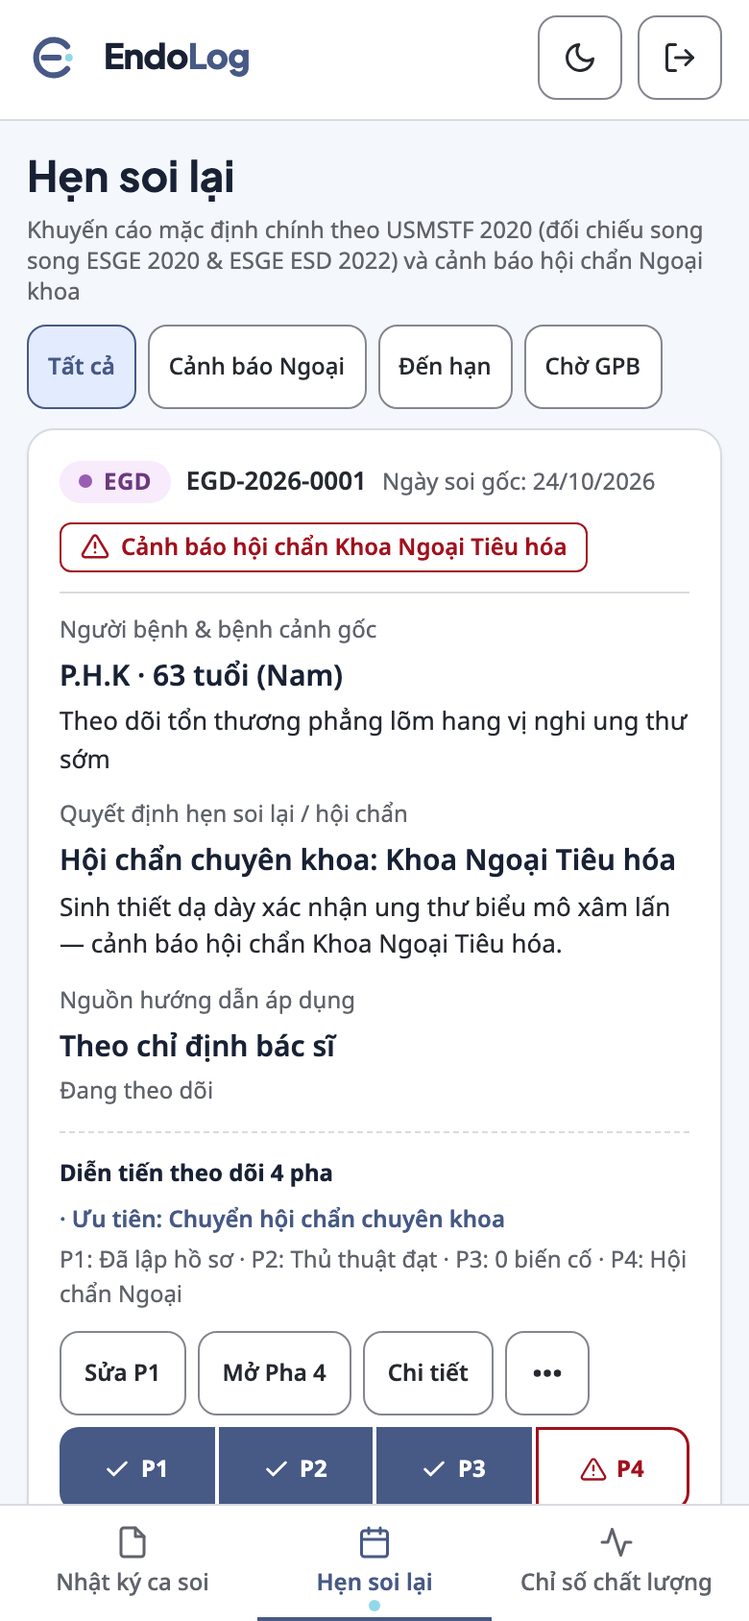
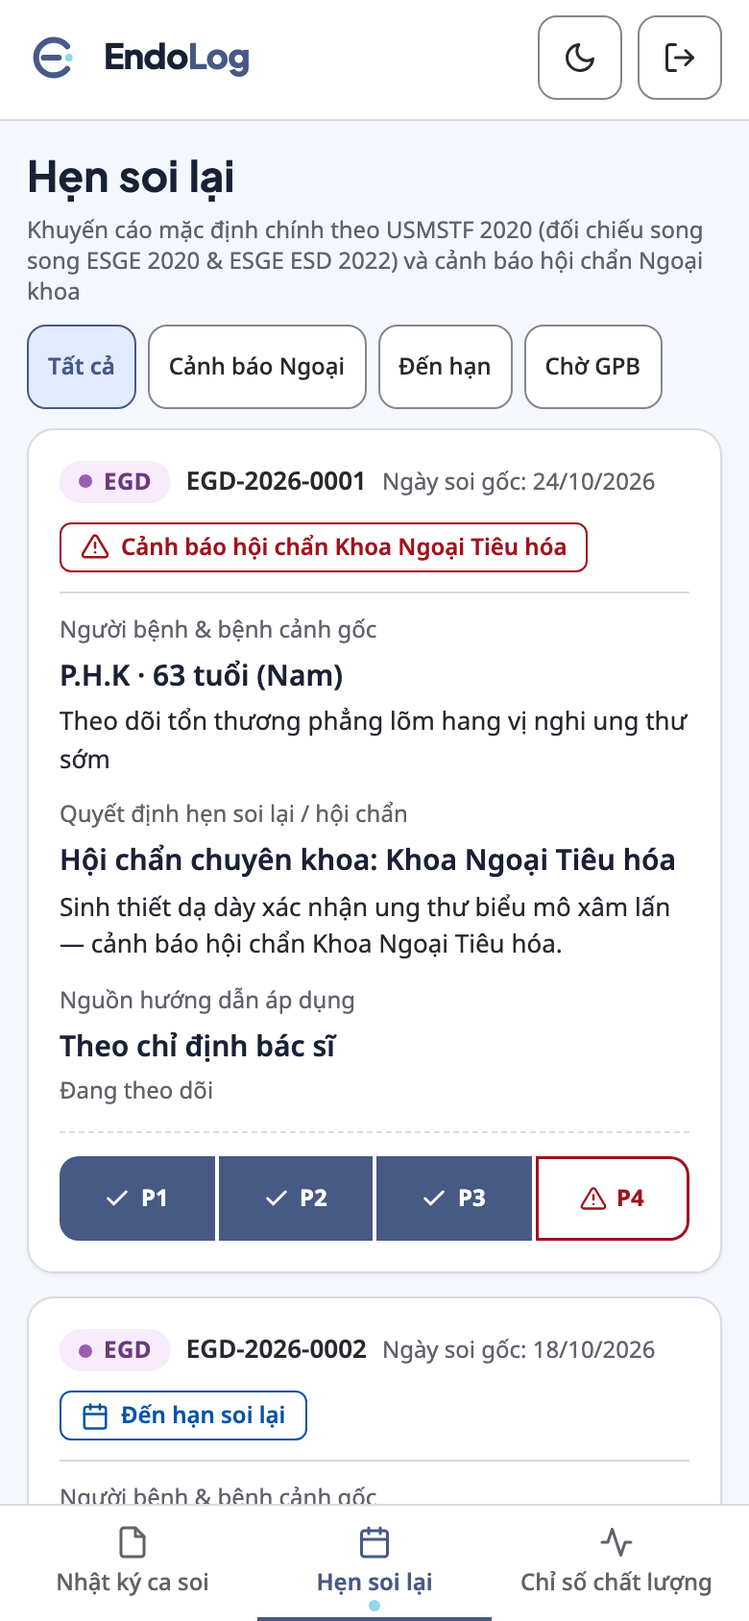
fix(ui): remove redundant progression text/buttons and show color stage bar only on mobile v0.2.2

Changed region(s): [[0.0308, 0.7085, 0.9231, 0.955], [0.8923, 0.8934, 0.9231, 0.9242]]

diff --git a/src/endolog/static/js/app.js b/src/endolog/static/js/app.js
@@ -813,24 +813,20 @@
     let contextualPrimaryBtnHtml = '';
     if (contextView === 'surveillance') {
       if (isPendingGpb) {
-        contextualPrimaryBtnHtml = '<button type="button" class="el-btn el-btn--compact el-btn--primary action-btn-p4" data-case-edit="' + cid + '" data-target-phase="p4">Nhập GPB P4</button>';
+        contextualPrimaryBtnHtml = '<button type="button" class="el-btn el-btn--compact el-btn--primary action-btn-p4" data-case-edit="' + cid + '" data-target-phase="p4">Nhập GPB</button>';
       } else if (canCreateLinked) {
         contextualPrimaryBtnHtml = '<button type="button" class="el-btn el-btn--compact el-btn--primary action-btn-link-surv" data-create-linked="' + cid + '">Tạo ca soi lại</button>';
       } else if (isPending30d) {
-        contextualPrimaryBtnHtml = '<button type="button" class="el-btn el-btn--compact el-btn--primary action-btn-p3" data-case-edit="' + cid + '" data-target-phase="p3">Theo dõi P3</button>';
-      } else {
-        contextualPrimaryBtnHtml = '<button type="button" class="el-btn el-btn--compact action-btn-p2" data-case-edit="' + cid + '" data-target-phase="p4">Mở Pha 4</button>';
+        contextualPrimaryBtnHtml = '<button type="button" class="el-btn el-btn--compact el-btn--primary action-btn-p3" data-case-edit="' + cid + '" data-target-phase="p3">Theo dõi 30 ngày</button>';
       }
     } else if (isP2Pending) {
-      contextualPrimaryBtnHtml = '<button type="button" class="el-btn el-btn--compact el-btn--primary action-btn-p2" data-case-edit="' + cid + '" data-target-phase="p2">Thủ thuật P2</button>';
+      contextualPrimaryBtnHtml = '<button type="button" class="el-btn el-btn--compact el-btn--primary action-btn-p2" data-case-edit="' + cid + '" data-target-phase="p2">Hoàn tất thủ thuật</button>';
     } else if (isPendingGpb) {
-      contextualPrimaryBtnHtml = '<button type="button" class="el-btn el-btn--compact el-btn--primary action-btn-p4" data-case-edit="' + cid + '" data-target-phase="p4">Nhập GPB P4</button>';
+      contextualPrimaryBtnHtml = '<button type="button" class="el-btn el-btn--compact el-btn--primary action-btn-p4" data-case-edit="' + cid + '" data-target-phase="p4">Nhập GPB</button>';
     } else if (isPending30d) {
-      contextualPrimaryBtnHtml = '<button type="button" class="el-btn el-btn--compact el-btn--primary action-btn-p3" data-case-edit="' + cid + '" data-target-phase="p3">Theo dõi P3</button>';
+      contextualPrimaryBtnHtml = '<button type="button" class="el-btn el-btn--compact el-btn--primary action-btn-p3" data-case-edit="' + cid + '" data-target-phase="p3">Theo dõi 30 ngày</button>';
     } else if (canCreateLinked) {
-      contextualPrimaryBtnHtml = '<button type="button" class="el-btn el-btn--compact el-btn--primary action-btn-link-surv" data-create-linked="' + cid + '">Soi lại P4</button>';
-    } else {
-      contextualPrimaryBtnHtml = '<button type="button" class="el-btn el-btn--compact action-btn-p2" data-case-edit="' + cid + '" data-target-phase="p2">Thủ thuật P2</button>';
+      contextualPrimaryBtnHtml = '<button type="button" class="el-btn el-btn--compact el-btn--primary action-btn-link-surv" data-create-linked="' + cid + '">Tạo ca soi lại</button>';
     }
 
     const allowLinkInMenu = Boolean(!surv.fulfilled_by_case_id && !isPendingGpb && surv.category !== 'SURGICAL_MDT_CONSULT_ALERT');
@@ -859,18 +855,11 @@
 
     return (
       '<div class="el-card-progression-bar">' +
-      '<div class="el-phase-summary-meta">' +
-      '<p class="el-phase-summary-kicker"><span>Diễn tiến theo dõi 4 pha</span><span class="el-phase-summary-count">· ' + escapeHtml(prog.nextStepLabel) + '</span></p>' +
-      '<p class="el-phase-summary-detail">' + escapeHtml(prog.summaryLine) + '</p>' +
-      '</div>' +
-      '<div class="el-action-cluster">' +
+      renderPhasePillTrackHtml(c.case_id, prog) +
       '<div class="el-action-buttons-row">' +
-      '<button type="button" class="el-btn el-btn--compact action-btn-p1" data-case-edit="' + cid + '" data-target-phase="p1">Sửa P1</button>' +
       contextualPrimaryBtnHtml +
       '<button type="button" class="el-btn el-btn--compact action-btn-detail" data-case-detail="' + cid + '">Chi tiết</button>' +
       overflowMenuHtml +
-      '</div>' +
-      renderPhasePillTrackHtml(c.case_id, prog) +
       '</div>' +
       '</div>'
     );

diff --git a/src/endolog/static/css/app.css b/src/endolog/static/css/app.css
@@ -1027,48 +1027,8 @@ body {
   flex-wrap: wrap;
   align-items: center;
   justify-content: space-between;
-  gap: 12px;
+  gap: 10px;
   min-width: 0;
-}
-
-.el-phase-summary-meta {
-  flex: 1 1 240px;
-  min-width: 0;
-  display: flex;
-  flex-direction: column;
-  gap: 3px;
-}
-
-.el-phase-summary-kicker {
-  margin: 0;
-  font-size: var(--text-xs);
-  font-weight: 700;
-  color: var(--text-heading);
-  display: flex;
-  flex-wrap: wrap;
-  align-items: center;
-  gap: 6px;
-}
-
-.el-phase-summary-count {
-  font-weight: 600;
-  color: var(--primary);
-}
-
-.el-phase-summary-detail {
-  margin: 0;
-  font-size: var(--text-xs);
-  color: var(--text-muted);
-  overflow-wrap: anywhere;
-}
-
-.el-action-cluster {
-  display: flex;
-  flex-direction: column;
-  align-items: flex-end;
-  gap: 6px;
-  min-width: 0;
-  max-width: 100%;
 }
 
 .el-action-buttons-row {
@@ -2020,17 +1980,10 @@ body {
   .el-card-progression-bar {
     flex-direction: column;
     align-items: stretch;
-    gap: 10px;
+    gap: 0;
   }
-  .el-phase-summary-meta {
-    flex: 0 0 auto;
-  }
-  .el-action-cluster {
-    width: 100%;
-    align-items: stretch;
-  }
-  .el-action-buttons-row {
-    justify-content: flex-start;
+  .el-card-progression-bar .el-action-buttons-row {
+    display: none;
   }
   .el-phase-pill-cluster {
     width: 100%;

diff --git a/src/endolog/static/index.html b/src/endolog/static/index.html
@@ -8,9 +8,9 @@
   <link rel="icon" type="image/svg+xml" href="/icons/favicon.svg">
   <link rel="apple-touch-icon" href="/icons/apple-touch-icon.png">
   <link rel="manifest" href="/manifest.json">
-  <link rel="stylesheet" href="/css/fonts.css?v=0.2.1">
-  <link rel="stylesheet" href="/css/tokens.css?v=0.2.1">
-  <link rel="stylesheet" href="/css/app.css?v=0.2.1">
+  <link rel="stylesheet" href="/css/fonts.css?v=0.2.2">
+  <link rel="stylesheet" href="/css/tokens.css?v=0.2.2">
+  <link rel="stylesheet" href="/css/app.css?v=0.2.2">
 </head>
 <body>
   <!-- Màn hình đăng nhập (Zero-Image, tên đầy đủ tiếng Việt) -->
@@ -1080,6 +1080,6 @@
     </div>
   </div>
 
-  <script src="/js/app.js?v=0.2.1"></script>
+  <script src="/js/app.js?v=0.2.2"></script>
 </body>
 </html>

diff --git a/src/endolog/static/sw.js b/src/endolog/static/sw.js
@@ -1,13 +1,13 @@
-/* EndoLog Service Worker v0.2.1 — Zero-PHI Cache Allowlist (NetworkOnly for all /api/*) */
-const CACHE_NAME = 'endolog-static-v0.2.1';
+/* EndoLog Service Worker v0.2.2 — Zero-PHI Cache Allowlist (NetworkOnly for all /api/*) */
+const CACHE_NAME = 'endolog-static-v0.2.2';
 const STATIC_ALLOWLIST = [
   '/',
   '/index.html',
   '/manifest.json',
-  '/css/fonts.css?v=0.2.1',
-  '/css/tokens.css?v=0.2.1',
-  '/css/app.css?v=0.2.1',
-  '/js/app.js?v=0.2.1',
+  '/css/fonts.css?v=0.2.2',
+  '/css/tokens.css?v=0.2.2',
+  '/css/app.css?v=0.2.2',
+  '/js/app.js?v=0.2.2',
   '/icons/favicon.svg',
   '/fonts/noto-sans-latin-var.woff2',
   '/fonts/noto-sans-vietnamese-var.woff2',

diff --git a/tools/verify_phase5_codex_8gate.py b/tools/verify_phase5_codex_8gate.py
@@ -604,7 +604,7 @@ def run_codex_8gate(capture_drawer_screenshots: bool = True) -> int:
                                 };
                                 return 0.2126 * f(r) + 0.7152 * f(g) + 0.0722 * f(b);
                             }
-                            const selectors = ['.el-section-title', '.el-case-code', '.el-field-primary', '.el-field-secondary', '.el-status-badge', '.el-proc-chip', '#el-btn-new-case', '.el-phase-pill', '.el-phase-summary-detail'];
+                            const selectors = ['.el-section-title', '.el-case-code', '.el-field-primary', '.el-field-secondary', '.el-status-badge', '.el-proc-chip', '#el-btn-new-case', '.el-phase-pill'];
                             let checked = 0;
                             const bad = [];
                             for (const sel of selectors) {
@@ -649,16 +649,38 @@ def run_codex_8gate(capture_drawer_screenshots: bool = True) -> int:
 
                 initial_card_count = page.locator("#el-case-list .el-case-card").count()
 
-                # 3.0. Verify SurgiLog-style 4-phase progression cluster (P1|P2|P3|P4), Chi tiết modal & ••• menu on every card
+                # 3.0. Verify SurgiLog-style 4-phase progression cluster (P1|P2|P3|P4), zero redundant text, mobile color-bar-only & Chi tiết modal
                 prog_audit = page.evaluate(
                     """() => {
                         const cards = Array.from(document.querySelectorAll('#el-case-list .el-case-card'));
                         const badCards = cards.filter(c => c.querySelectorAll('.el-phase-pill').length !== 4).length;
-                        return { totalCards: cards.length, badCards };
+                        const redundantMeta = document.querySelectorAll('.el-phase-summary-meta').length;
+                        const dupEditP1Btns = document.querySelectorAll('.el-action-buttons-row .action-btn-p1').length;
+                        return { totalCards: cards.length, badCards, redundantMeta, dupEditP1Btns };
                     }"""
                 )
-                if prog_audit["totalCards"] < 5 or prog_audit["badCards"] != 0:
-                    g3_errs.append(f"Thẻ ca soi thiếu cụm 4 pha P1..P4 chuẩn SurgiLog: {prog_audit}")
+                if prog_audit["totalCards"] < 5 or prog_audit["badCards"] != 0 or prog_audit["redundantMeta"] != 0 or prog_audit["dupEditP1Btns"] != 0:
+                    g3_errs.append(f"Thẻ ca soi sai cấu trúc tinh gọn 4 pha P1..P4 hoặc còn lặp văn bản/nút P1: {prog_audit}")
+
+                # Verify mobile (390px) shows ONLY the 4-segment color bar (.el-action-buttons-row hidden)
+                page.set_viewport_size({"width": 390, "height": 844})
+                page.wait_for_timeout(60)
+                mobile_prog_check = page.evaluate(
+                    """() => {
+                        const card = document.querySelector('#el-case-list .el-case-card');
+                        const row = card ? card.querySelector('.el-action-buttons-row') : null;
+                        const bar = card ? card.querySelector('.el-phase-pill-cluster') : null;
+                        return {
+                            actionRowDisplay: row ? getComputedStyle(row).display : 'missing',
+                            pillBarDisplay: bar ? getComputedStyle(bar).display : 'missing',
+                            pillCount: bar ? bar.querySelectorAll('.el-phase-pill').length : 0,
+                        };
+                    }"""
+                )
+                if mobile_prog_check["actionRowDisplay"] != "none" or mobile_prog_check["pillBarDisplay"] == "none" or mobile_prog_check["pillCount"] != 4:
+                    g3_errs.append(f"Chế độ mobile 390px chưa ẩn hàng nút phụ để chỉ giữ thanh biểu thị màu 4 pha: {mobile_prog_check}")
+                page.set_viewport_size({"width": 1440, "height": 960})
+                page.wait_for_timeout(60)
 
                 # Open 4-phase Detail Modal via 'Chi tiết', verify 0 raw UPPER_SNAKE_CASE & Escape close
                 page.locator("#el-case-list .el-case-card").first.locator(".action-btn-detail").click()
@@ -833,10 +855,10 @@ def run_codex_8gate(capture_drawer_screenshots: bool = True) -> int:
                 page.locator("#el-case-drawer-backdrop").wait_for(state="hidden", timeout=5000)
 
                 # Verify OCC 409 conflict banner when concurrent update increments version behind open drawer
-                page.locator("#el-case-list .action-btn-p2").first.click()
+                page.locator('#el-case-list .el-phase-pill[data-phase-pill="p2"]').first.click()
                 page.locator("#el-case-drawer").wait_for(state="visible", timeout=3000)
                 editing_cid = page.evaluate(
-                    "() => document.querySelector('#el-case-list .action-btn-p2').getAttribute('data-case-edit')"
+                    """() => document.querySelector('#el-case-list .el-phase-pill[data-phase-pill="p2"]').getAttribute('data-case-edit')"""
                 )
                 concurrent_status = page.evaluate(
                     """async (cid) => {
@@ -1039,7 +1061,7 @@ def run_codex_8gate(capture_drawer_screenshots: bool = True) -> int:
     measured_evidence = {
         "schema": "EndoLog-Phase5-Measured-Evidence-v1.0",
         "generated_at_utc": now_iso,
-        "version": "0.2.1",
+        "version": "0.2.2",
         "overall_status": overall_status,
         "ergonomic_click_budget_proxy": gates["GATE_3_ERGONOMICS_AND_4PHASE_WORKFLOWS"]["metrics"],
         "viewport_and_mobile_budget": gates["GATE_4_MULTIVIEWPORT_AND_MOBILE_BUDGET"]["metrics"],
@@ -1056,7 +1078,7 @@ def run_codex_8gate(capture_drawer_screenshots: bool = True) -> int:
     test_report = {
         "schema": "EndoLog-Phase5-Codex-8Gate-Report-v1.0",
         "generated_at_utc": now_iso,
-        "version": "0.2.1",
+        "version": "0.2.2",
         "overall_status": overall_status,
         "gates_passed": sum(1 for g in gates.values() if g["status"] == "PASS"),
         "gates_total": len(gates),

diff --git a/src/endolog/__init__.py b/src/endolog/__init__.py
@@ -1,3 +1,3 @@
 """EndoLog — Hệ thống sổ bộ lâm sàng & đánh giá chất lượng nội soi tiêu hoá."""
 
-__version__ = "0.2.1"
+__version__ = "0.2.2"

diff --git a/PROJECT_CONTEXT/BANG_TONG_HOP_LOI_VA_KHAC_PHUC.md b/PROJECT_CONTEXT/BANG_TONG_HOP_LOI_VA_KHAC_PHUC.md
@@ -11,10 +11,10 @@
 
 ## 📊 1. THỐNG KÊ TỔNG QUAN
 
-* **Tổng số sự cố & tính năng ghi nhận:** 17
+* **Tổng số sự cố & tính năng ghi nhận:** 18
 * **Đang xử lý / Dự thảo chờ duyệt (`OPEN`):** 0
 * **Đã phong tỏa an toàn (`CONTAINED`):** 0
-* **Đã thực thi, chờ nghiệm thu (`FIXED_PENDING_VERIFY`):** 6
+* **Đã thực thi, chờ nghiệm thu (`FIXED_PENDING_VERIFY`):** 7
 * **Đã xác minh hoàn tất (`VERIFIED_CLOSED`):** 11
 * **Mở lại sau đóng (`REOPENED`):** 0
 
@@ -40,7 +40,8 @@
 | 14 | `BUG-009` | 2026-10-31 | `855cdba` | Quy trình kiểm chứng tĩnh (`tools/verify_brand_phase4a.py` & báo cáo Phase 4A) | Khắc phục `R5`: Bổ sung quét `rgba/hsla/oklch/named color`, làm rõ BSD `grep -P` trên macOS và mở rộng dải quét emoji kèm danh sách 8 tệp | Check 1 trước đây mới bắt `#hex`; Check 3A trên macOS dùng `BSD grep -P` bị lỗi; dải Check 3B chưa bao phủ `U+2300–23FF` / `U+2B00–2BFF` / `U+FE0F` | `P2 - Medium` | Bộ lệnh kiểm chứng tĩnh ban đầu giả định GNU grep và phạm vi biểu thức chính quy màu/emoji còn hẹp (`VERIFIED_ROOT_CAUSE`) | Bổ sung Check 1B quét `rgba()/hsla()/oklch()` và từ khóa màu đặt tên (`0` vi phạm); chỉ dùng Check 3B mở rộng dải Unicode kèm in rõ đường dẫn cả 8 tệp đã quét (`0.1.0-alpha.3`) | `VERIFIED_CLOSED` | Toàn văn output kiểm chứng tĩnh `R5` trong báo cáo Phase 4A (`0` vi phạm trên 8 tệp) | Không còn lỗ hổng kiểm chứng tĩnh màu/emoji | `2026-10-31` · `BSCKII. Vũ Khương An` |
 | 15 | `FEAT-006` | 2026-10-31 | `bc9238961272` | Giao diện nhập liệu lâm sàng & API (`static/index.html`, `app.css`, `app.js`, `api/service.py`, `main.py`, `schemas/clinical.py`) | Triển khai Phase 4B: Ngăn kéo nhập liệu & cập nhật ca nội soi 4 pha không khóa tuần tự, công thái học 1 chạm, cấu hình chuyên môn & xuất Hồ sơ A/B/C | Sau khi duyệt Phase 4A, cần hoàn thiện biểu mẫu tương tác đầy đủ cho `COL/EGD/ERCP` khớp từ điển biến số, cho phép lưu/cập nhật từng pha độc lập, đóng vòng hẹn soi lại và bảo vệ thay đổi chưa lưu | N/A | N/A (`N/A`) | Cài đặt `#el-btn-new-case`, ngăn kéo 4 pha (`Pha 1..4`) với hiển thị lũy tiến theo phân hệ, mẫu 1 chạm đại tràng bình thường (`3` cú nhấp), chấm `BBPS` + bấm giờ rút ống, chip chọn nhanh vị trí & can thiệp/dự phòng `ERCP` (`ESGE 2016` + 12 xét nghiệm mở rộng), đồng bộ tổng hợp `COL`, đóng vòng hẹn soi lại `fulfill_surveillance_rec_id`, hộp thoại trùng ngoại trú `HTTP 409`, `If-Match` OCC `409`, DLP `422`, Dirty Guard + bẫy tiêu điểm `inert`, xóa trắng ngăn kéo mở khi hết phiên và xuất đủ `Hồ sơ A/B/C` (`0.2.0`) | `FIXED_PENDING_VERIFY` | `pytest tests/test_phase4b_and_phase5.py -v` (`5/5 passed`); `tools/verify_phase5_codex_8gate.py` (`PASS GATE_3_ERGONOMICS_AND_4PHASE_WORKFLOWS`) | Chờ ThS. BSCKI. Nguyễn Bình An và BSCKII. Vũ Khương An nghiệm thu tại Gate C | `PENDING` (chờ nghiệm thu Gate C) |
 | 16 | `FEAT-007` | 2026-10-31 | `bc9238961272` | Kiểm chứng tổng thể & SSoT (`tools/verify_phase5_codex_8gate.py`, `scripts/check_ssot.py`, `docs/verification/`) | Triển khai Phase 5: Kiểm định Codex 8-Gate, ngân sách thao tác công thái học, đồng bộ phiên bản `0.2.0` & biên lai JSON thực nghiệm | Hoàn tất toàn bộ kiểm chứng kỹ thuật trước biên giới Gate C (0 tràn ngang `320..1440 px`, 100% vùng chạm `>= 44×44 px`, tương phản DOM thực, Zero-PHI 5 tầng sau CRUD, chuỗi kiểm toán SHA-256 và đối soát SSoT) | N/A | N/A (`N/A`) | Xây dựng `tools/verify_phase5_codex_8gate.py`, `scripts/check_ssot.py`, xuất `docs/verification/measured_evidence.json` & `test_report.json`, chụp bổ sung 4 ảnh ngăn kéo 4 pha và dừng nghiêm ngặt tại biên giới Gate C (`0.2.0`) | `FIXED_PENDING_VERIFY` | `python3 tools/verify_phase5_codex_8gate.py` (`8/8 Gates PASS`); `python3 scripts/check_ssot.py` (`Exit Code 0`) | Chưa bấm giờ thực nghiệm lâm sàng tại phòng soi và chưa triển khai production (chờ mở Gate C) | `PENDING` (chờ nghiệm thu Gate C) |
-| 17 | `FEAT-008` | 2026-10-31 | `99a62e132d43` | Giao diện theo dõi dọc 4 pha (`src/endolog/static/index.html`, `app.css`, `app.js`, `tests/`, `tools/`) | Triển khai thanh tiến trình theo dõi 4 pha đồng bộ SurgiLog (`P1..P4`), hộp thoại `Chi tiết` 4 pha & trình đơn tràn `•••` trên 100% thẻ ca soi | Người dùng yêu cầu mọi thẻ ca soi hiển thị diễn tiến theo dõi 4 pha trực quan tương tự SurgiLog (hàng nút ngữ cảnh `[Sửa P1]`, nút chính theo pha cần làm tiếp theo, `[Chi tiết]`, `[•••]` kèm thanh 4 phân đoạn liên hoàn `P1, P2, P3, P4`) | N/A | N/A (`N/A`) | Bổ sung `computeCasePhaseProgression()`, `.el-card-progression-bar` 2 tầng (`P1..P4` với 5 trạng thái `done/pending/active/urgent/na`, SVG nét `stroke=2` tự host, `0` emoji, vùng chạm `>= 44×44 px`), trình đơn `.el-action-menu-dropdown` tự lật `.is-dropup`, hộp thoại `#el-detail-modal-backdrop` hiển thị toàn cảnh 4 pha tiếng Việt chuẩn (`0` mã enum thô, xóa sạch khi kết thúc phiên `B02`) trên cả màn `Nhật ký ca soi` lẫn `Hẹn soi lại` (`0.2.1`) | `FIXED_PENDING_VERIFY` | `pytest -v` (`25/25 passed`); `tools/verify_brand_phase4a.py` (`0 FAILURES`); `tools/verify_phase5_codex_8gate.py` (`8/8 Gates PASS`) | Chờ ThS. BSCKI. Nguyễn Bình An và BSCKII. Vũ Khương An nghiệm thu giao diện diễn tiến 4 pha | `PENDING` (chờ nghiệm thu Gate C) |
+| 17 | `FEAT-008` | 2026-10-31 | `99a62e132d43` | Giao diện theo dõi dọc 4 pha (`src/endolog/static/index.html`, `app.css`, `app.js`, `tests/`, `tools/`) | Triển khai thanh tiến trình theo dõi 4 pha đồng bộ SurgiLog (`P1..P4`), hộp thoại `Chi tiết` 4 pha & trình đơn tràn `•••` trên 100% thẻ ca soi | Người dùng yêu cầu mọi thẻ ca soi hiển thị diễn tiến theo dõi 4 pha trực quan tương tự SurgiLog (hàng nút ngữ cảnh `[Sửa P1]`, nút chính theo pha cần làm tiếp theo, `[Chi tiết]`, `[•••]` kèm thanh 4 phân đoạn liên hoàn `P1, P2, P3, P4`) | N/A | N/A (`N/A`) | Bổ sung `computeCasePhaseProgression()`, `.el-card-progression-bar` 2 tầng (`P1..P4` với 5 trạng thái `done/pending/active/urgent/na`, SVG nét `stroke=2` tự host, `0` emoji, vùng chạm `>= 44×44 px`), trình đơn `.el-action-menu-dropdown` tự lật `.is-dropup`, hộp thoại `#el-detail-modal-backdrop` hiển thị toàn cảnh 4 pha tiếng Việt chuẩn (`0` mã enum thô, xóa sạch khi kết thúc phiên `B02`) trên cả màn `Nhật ký ca soi` lẫn `Hẹn soi lại` (`0.2.1`) | `FIXED_PENDING_VERIFY` | `pytest -v` (`25/25 passed`); `tools/verify_brand_phase4a.py` (`0 FAILURES`); `tools/verify_phase5_codex_8gate.py` (`8/8 Gates PASS`) | Đã tinh gọn chống lặp thông tin và thu gọn chế độ mobile tại `BUG-010` | `PENDING` (chờ nghiệm thu Gate C) |
+| 18 | `BUG-010` | 2026-10-31 | `PENDING_COMMIT` | Chân thẻ ca soi Desktop & Mobile (`src/endolog/static/js/app.js`, `app.css`, `tools/verify_phase5_codex_8gate.py`) | Khử trùng lặp thông tin trên chân thẻ ca soi và chỉ giữ thanh biểu thị màu 4 pha ở chế độ điện thoại (`<= 767 px`) | Bản `0.2.1` hiển thị đồng thời 2 dòng văn bản tóm tắt (`.el-phase-summary-meta`), nút `Sửa P1` / `Thủ thuật P2` lặp lại 4 nút `P1..P4` bên dưới và xếp chồng 4 tầng ở màn hình điện thoại gây rối mắt | `P2 - Medium` | Chân thẻ ghép cả khối mô tả chữ của phiên bản nháp lẫn đầy đủ hàng nút Desktop xuống màn hình hẹp thay vì tận dụng trực tiếp 4 phân đoạn màu `P1..P4` (`VERIFIED_ROOT_CAUSE`) | Xóa hoàn toàn `.el-phase-summary-meta` và các nút lặp pha (`Sửa P1`, `Thủ thuật P2`, `Mở Pha 4`), gộp chân thẻ Desktop thành 1 hàng ngang duy nhất và ẩn `.el-action-buttons-row` ở `<= 767 px` để trên mobile chỉ hiển thị thanh màu 4 pha `P1..P4` (`0.2.2`) | `FIXED_PENDING_VERIFY` | `tools/verify_brand_phase4a.py` (`0 FAILURES`); `tools/verify_phase5_codex_8gate.py` (`8/8 Gates PASS`) | Chờ Bác sĩ xác nhận trực quan trên Desktop và Mobile | `PENDING` (chờ nghiệm thu Gate C) |
 
 ---
 

diff --git a/docs/BUG_FIX_REGISTRY.md b/docs/BUG_FIX_REGISTRY.md
@@ -11,10 +11,10 @@
 
 ## 📊 1. THỐNG KÊ TỔNG QUAN
 
-* **Tổng số sự cố & tính năng ghi nhận:** 17
+* **Tổng số sự cố & tính năng ghi nhận:** 18
 * **Đang xử lý / Dự thảo chờ duyệt (`OPEN`):** 0
 * **Đã phong tỏa an toàn (`CONTAINED`):** 0
-* **Đã thực thi, chờ nghiệm thu (`FIXED_PENDING_VERIFY`):** 6
+* **Đã thực thi, chờ nghiệm thu (`FIXED_PENDING_VERIFY`):** 7
 * **Đã xác minh hoàn tất (`VERIFIED_CLOSED`):** 11
 * **Mở lại sau đóng (`REOPENED`):** 0
 
@@ -40,7 +40,8 @@
 | 14 | `BUG-009` | 2026-10-31 | `855cdba` | Quy trình kiểm chứng tĩnh (`tools/verify_brand_phase4a.py` & báo cáo Phase 4A) | Khắc phục `R5`: Bổ sung quét `rgba/hsla/oklch/named color`, làm rõ BSD `grep -P` trên macOS và mở rộng dải quét emoji kèm danh sách 8 tệp | Check 1 trước đây mới bắt `#hex`; Check 3A trên macOS dùng `BSD grep -P` bị lỗi; dải Check 3B chưa bao phủ `U+2300–23FF` / `U+2B00–2BFF` / `U+FE0F` | `P2 - Medium` | Bộ lệnh kiểm chứng tĩnh ban đầu giả định GNU grep và phạm vi biểu thức chính quy màu/emoji còn hẹp (`VERIFIED_ROOT_CAUSE`) | Bổ sung Check 1B quét `rgba()/hsla()/oklch()` và từ khóa màu đặt tên (`0` vi phạm); chỉ dùng Check 3B mở rộng dải Unicode kèm in rõ đường dẫn cả 8 tệp đã quét (`0.1.0-alpha.3`) | `VERIFIED_CLOSED` | Toàn văn output kiểm chứng tĩnh `R5` trong báo cáo Phase 4A (`0` vi phạm trên 8 tệp) | Không còn lỗ hổng kiểm chứng tĩnh màu/emoji | `2026-10-31` · `BSCKII. Vũ Khương An` |
 | 15 | `FEAT-006` | 2026-10-31 | `bc9238961272` | Giao diện nhập liệu lâm sàng & API (`static/index.html`, `app.css`, `app.js`, `api/service.py`, `main.py`, `schemas/clinical.py`) | Triển khai Phase 4B: Ngăn kéo nhập liệu & cập nhật ca nội soi 4 pha không khóa tuần tự, công thái học 1 chạm, cấu hình chuyên môn & xuất Hồ sơ A/B/C | Sau khi duyệt Phase 4A, cần hoàn thiện biểu mẫu tương tác đầy đủ cho `COL/EGD/ERCP` khớp từ điển biến số, cho phép lưu/cập nhật từng pha độc lập, đóng vòng hẹn soi lại và bảo vệ thay đổi chưa lưu | N/A | N/A (`N/A`) | Cài đặt `#el-btn-new-case`, ngăn kéo 4 pha (`Pha 1..4`) với hiển thị lũy tiến theo phân hệ, mẫu 1 chạm đại tràng bình thường (`3` cú nhấp), chấm `BBPS` + bấm giờ rút ống, chip chọn nhanh vị trí & can thiệp/dự phòng `ERCP` (`ESGE 2016` + 12 xét nghiệm mở rộng), đồng bộ tổng hợp `COL`, đóng vòng hẹn soi lại `fulfill_surveillance_rec_id`, hộp thoại trùng ngoại trú `HTTP 409`, `If-Match` OCC `409`, DLP `422`, Dirty Guard + bẫy tiêu điểm `inert`, xóa trắng ngăn kéo mở khi hết phiên và xuất đủ `Hồ sơ A/B/C` (`0.2.0`) | `FIXED_PENDING_VERIFY` | `pytest tests/test_phase4b_and_phase5.py -v` (`5/5 passed`); `tools/verify_phase5_codex_8gate.py` (`PASS GATE_3_ERGONOMICS_AND_4PHASE_WORKFLOWS`) | Chờ ThS. BSCKI. Nguyễn Bình An và BSCKII. Vũ Khương An nghiệm thu tại Gate C | `PENDING` (chờ nghiệm thu Gate C) |
 | 16 | `FEAT-007` | 2026-10-31 | `bc9238961272` | Kiểm chứng tổng thể & SSoT (`tools/verify_phase5_codex_8gate.py`, `scripts/check_ssot.py`, `docs/verification/`) | Triển khai Phase 5: Kiểm định Codex 8-Gate, ngân sách thao tác công thái học, đồng bộ phiên bản `0.2.0` & biên lai JSON thực nghiệm | Hoàn tất toàn bộ kiểm chứng kỹ thuật trước biên giới Gate C (0 tràn ngang `320..1440 px`, 100% vùng chạm `>= 44×44 px`, tương phản DOM thực, Zero-PHI 5 tầng sau CRUD, chuỗi kiểm toán SHA-256 và đối soát SSoT) | N/A | N/A (`N/A`) | Xây dựng `tools/verify_phase5_codex_8gate.py`, `scripts/check_ssot.py`, xuất `docs/verification/measured_evidence.json` & `test_report.json`, chụp bổ sung 4 ảnh ngăn kéo 4 pha và dừng nghiêm ngặt tại biên giới Gate C (`0.2.0`) | `FIXED_PENDING_VERIFY` | `python3 tools/verify_phase5_codex_8gate.py` (`8/8 Gates PASS`); `python3 scripts/check_ssot.py` (`Exit Code 0`) | Chưa bấm giờ thực nghiệm lâm sàng tại phòng soi và chưa triển khai production (chờ mở Gate C) | `PENDING` (chờ nghiệm thu Gate C) |
-| 17 | `FEAT-008` | 2026-10-31 | `99a62e132d43` | Giao diện theo dõi dọc 4 pha (`src/endolog/static/index.html`, `app.css`, `app.js`, `tests/`, `tools/`) | Triển khai thanh tiến trình theo dõi 4 pha đồng bộ SurgiLog (`P1..P4`), hộp thoại `Chi tiết` 4 pha & trình đơn tràn `•••` trên 100% thẻ ca soi | Người dùng yêu cầu mọi thẻ ca soi hiển thị diễn tiến theo dõi 4 pha trực quan tương tự SurgiLog (hàng nút ngữ cảnh `[Sửa P1]`, nút chính theo pha cần làm tiếp theo, `[Chi tiết]`, `[•••]` kèm thanh 4 phân đoạn liên hoàn `P1, P2, P3, P4`) | N/A | N/A (`N/A`) | Bổ sung `computeCasePhaseProgression()`, `.el-card-progression-bar` 2 tầng (`P1..P4` với 5 trạng thái `done/pending/active/urgent/na`, SVG nét `stroke=2` tự host, `0` emoji, vùng chạm `>= 44×44 px`), trình đơn `.el-action-menu-dropdown` tự lật `.is-dropup`, hộp thoại `#el-detail-modal-backdrop` hiển thị toàn cảnh 4 pha tiếng Việt chuẩn (`0` mã enum thô, xóa sạch khi kết thúc phiên `B02`) trên cả màn `Nhật ký ca soi` lẫn `Hẹn soi lại` (`0.2.1`) | `FIXED_PENDING_VERIFY` | `pytest -v` (`25/25 passed`); `tools/verify_brand_phase4a.py` (`0 FAILURES`); `tools/verify_phase5_codex_8gate.py` (`8/8 Gates PASS`) | Chờ ThS. BSCKI. Nguyễn Bình An và BSCKII. Vũ Khương An nghiệm thu giao diện diễn tiến 4 pha | `PENDING` (chờ nghiệm thu Gate C) |
+| 17 | `FEAT-008` | 2026-10-31 | `99a62e132d43` | Giao diện theo dõi dọc 4 pha (`src/endolog/static/index.html`, `app.css`, `app.js`, `tests/`, `tools/`) | Triển khai thanh tiến trình theo dõi 4 pha đồng bộ SurgiLog (`P1..P4`), hộp thoại `Chi tiết` 4 pha & trình đơn tràn `•••` trên 100% thẻ ca soi | Người dùng yêu cầu mọi thẻ ca soi hiển thị diễn tiến theo dõi 4 pha trực quan tương tự SurgiLog (hàng nút ngữ cảnh `[Sửa P1]`, nút chính theo pha cần làm tiếp theo, `[Chi tiết]`, `[•••]` kèm thanh 4 phân đoạn liên hoàn `P1, P2, P3, P4`) | N/A | N/A (`N/A`) | Bổ sung `computeCasePhaseProgression()`, `.el-card-progression-bar` 2 tầng (`P1..P4` với 5 trạng thái `done/pending/active/urgent/na`, SVG nét `stroke=2` tự host, `0` emoji, vùng chạm `>= 44×44 px`), trình đơn `.el-action-menu-dropdown` tự lật `.is-dropup`, hộp thoại `#el-detail-modal-backdrop` hiển thị toàn cảnh 4 pha tiếng Việt chuẩn (`0` mã enum thô, xóa sạch khi kết thúc phiên `B02`) trên cả màn `Nhật ký ca soi` lẫn `Hẹn soi lại` (`0.2.1`) | `FIXED_PENDING_VERIFY` | `pytest -v` (`25/25 passed`); `tools/verify_brand_phase4a.py` (`0 FAILURES`); `tools/verify_phase5_codex_8gate.py` (`8/8 Gates PASS`) | Đã tinh gọn chống lặp thông tin và thu gọn chế độ mobile tại `BUG-010` | `PENDING` (chờ nghiệm thu Gate C) |
+| 18 | `BUG-010` | 2026-10-31 | `PENDING_COMMIT` | Chân thẻ ca soi Desktop & Mobile (`src/endolog/static/js/app.js`, `app.css`, `tools/verify_phase5_codex_8gate.py`) | Khử trùng lặp thông tin trên chân thẻ ca soi và chỉ giữ thanh biểu thị màu 4 pha ở chế độ điện thoại (`<= 767 px`) | Bản `0.2.1` hiển thị đồng thời 2 dòng văn bản tóm tắt (`.el-phase-summary-meta`), nút `Sửa P1` / `Thủ thuật P2` lặp lại 4 nút `P1..P4` bên dưới và xếp chồng 4 tầng ở màn hình điện thoại gây rối mắt | `P2 - Medium` | Chân thẻ ghép cả khối mô tả chữ của phiên bản nháp lẫn đầy đủ hàng nút Desktop xuống màn hình hẹp thay vì tận dụng trực tiếp 4 phân đoạn màu `P1..P4` (`VERIFIED_ROOT_CAUSE`) | Xóa hoàn toàn `.el-phase-summary-meta` và các nút lặp pha (`Sửa P1`, `Thủ thuật P2`, `Mở Pha 4`), gộp chân thẻ Desktop thành 1 hàng ngang duy nhất và ẩn `.el-action-buttons-row` ở `<= 767 px` để trên mobile chỉ hiển thị thanh màu 4 pha `P1..P4` (`0.2.2`) | `FIXED_PENDING_VERIFY` | `tools/verify_brand_phase4a.py` (`0 FAILURES`); `tools/verify_phase5_codex_8gate.py` (`8/8 Gates PASS`) | Chờ Bác sĩ xác nhận trực quan trên Desktop và Mobile | `PENDING` (chờ nghiệm thu Gate C) |
 
 ---
 

diff --git a/README.md b/README.md
@@ -1,9 +1,9 @@
 # EndoLog — Gastrointestinal Endoscopy Registry & Quality Platform
 ## Dự Án: Hệ Thống Sổ Bộ Lâm Sàng & Đánh Giá Chất Lượng Nội Soi Tiêu Hóa
 ### Đơn vị công tác: Khoa Nội soi Tiêu hóa — Bệnh viện Bình Dân
-### Nguồn tham chiếu: [version.md](version.md) (SSoT Phiên bản `0.2.1`) • [AGENTS.md](AGENTS.md) (Quy chuẩn dự án) • [BUG_FIX_REGISTRY.md](docs/BUG_FIX_REGISTRY.md) (Sổ lỗi & Tính năng) • [BRAND.md](docs/brand/BRAND.md) (Nhận diện `v1 · Chàm khói`)
+### Nguồn tham chiếu: [version.md](version.md) (SSoT Phiên bản `0.2.2`) • [AGENTS.md](AGENTS.md) (Quy chuẩn dự án) • [BUG_FIX_REGISTRY.md](docs/BUG_FIX_REGISTRY.md) (Sổ lỗi & Tính năng) • [BRAND.md](docs/brand/BRAND.md) (Nhận diện `v1 · Chàm khói`)
 
-**Phiên bản hiện tại:** `0.2.1` — Hoàn tất phát triển & kiểm chứng kỹ thuật **Gate B (Phase 1 → Phase 5 + Cụm diễn tiến 4 pha chuẩn SurgiLog)** trên dữ liệu giả lập cục bộ; **dừng tại biên giới Gate C** chờ nghiệm thu thực nghiệm lâm sàng — **ZERO-PHI & ZERO-IMAGE DESIGN**  
+**Phiên bản hiện tại:** `0.2.2` — Hoàn tất phát triển & kiểm chứng kỹ thuật **Gate B (Phase 1 → Phase 5 + Cụm diễn tiến 4 pha chuẩn SurgiLog)** trên dữ liệu giả lập cục bộ; **dừng tại biên giới Gate C** chờ nghiệm thu thực nghiệm lâm sàng — **ZERO-PHI & ZERO-IMAGE DESIGN**  
 **Superadmin & Quản trị kỹ thuật:** **BSCKII. Vũ Khương An — Bệnh viện Bình Dân**  
 **Người dùng chính (`Primary Endoscopist`):** **ThS. BSCKI. Nguyễn Bình An — Khoa Nội soi Tiêu hóa, Bệnh viện Bình Dân**
 
@@ -15,13 +15,13 @@
 
 ---
 
-## 1. Cấu Trúc Thư Mục Dự Án (`v0.2.1` — Profile `webapp` ISO 15489-1:2016)
+## 1. Cấu Trúc Thư Mục Dự Án (`v0.2.2` — Profile `webapp` ISO 15489-1:2016)
 
 ```text
 endolog/
 ├── AGENTS.md                                      # Quy chuẩn kỹ thuật, môi trường fail-closed & bảo mật cục bộ (CLS-03)
 ├── README.md                                      # Tổng quan dự án, cấu trúc & hướng dẫn kiểm chứng (CLS-02)
-├── pyproject.toml                                 # Khai báo gói Python endolog v0.2.1
+├── pyproject.toml                                 # Khai báo gói Python endolog v0.2.2
 ├── version.md                                     # Lịch sử phiên bản SemVer 2.0.0 (CLS-07)
 ├── .gitignore                                     # Chốt chặn bảo vệ dữ liệu lâm sàng & khóa bí mật
 ├── PROJECT_CONTEXT/                               # Bộ não tri thức dự án (SSoT Brain — CLS-02/07)

diff --git a/version.md b/version.md
@@ -5,6 +5,13 @@ Mọi thay đổi đáng chú ý của dự án **EndoLog** (*Hệ Thống Sổ 
 Định dạng tuân thủ chuẩn [Keep a Changelog 1.1.0](https://keepachangelog.com/en/1.1.0/) và quy tắc đánh số phiên bản theo [Semantic Versioning 2.0.0](https://semver.org/spec/v2.0.0.html) (`MAJOR.MINOR.PATCH`).
 Các nhóm phân loại hợp lệ: `Added`, `Changed`, `Deprecated`, `Removed`, `Fixed`, `Security`.
 
+## [0.2.2] - 2026-10-31
+
+### Changed
+- Tinh gọn chống trùng lặp trên chân thẻ ca soi (`src/endolog/static/js/app.js`, `src/endolog/static/css/app.css`):
+  - Gỡ bỏ hoàn toàn 2 dòng chữ tóm tắt lặp thông tin (`.el-phase-summary-meta`) và gỡ các nút lặp pha (`Sửa P1`, `Thủ thuật P2`, `Mở Pha 4`) vốn đã có sẵn trên 4 phân đoạn màu `P1..P4`; trên máy tính (`>= 768 px`) gộp chân thẻ còn 1 hàng ngang duy nhất gồm thanh màu `P1..P4` bên trái và cụm `[Hành động bước tiếp theo (chỉ hiện khi đang chờ)]` · `[Chi tiết]` · `[•••]` bên phải.
+  - Ở chế độ điện thoại (`<= 767 px`), ẩn hoàn toàn hàng nút phụ (`.el-action-buttons-row`) và **chỉ giữ duy nhất thanh biểu thị màu 4 giai đoạn (`P1 | P2 | P3 | P4`)** trải đều ngang thẻ để nhận diện nhanh giai đoạn ca soi ([BUG-010]).
+
 ## [0.2.1] - 2026-10-31
 
 ### Added

diff --git a/PROJECT_CONTEXT/FILE_CLASSIFICATION_MATRIX.md b/PROJECT_CONTEXT/FILE_CLASSIFICATION_MATRIX.md
@@ -1,6 +1,6 @@
 # BẢNG MA TRẬN PHÂN LOẠI TỆP TIN DỰ ÁN (FILE CLASSIFICATION MATRIX)
 **Dự án:** EndoLog (`endolog`) — Sổ Bộ Lâm Sàng & Đánh Giá Chất Lượng Nội Soi Tiêu Hóa (Bệnh viện Bình Dân)  
-**Phiên bản:** 1.4 (Gate B — Phase 1–5 & SurgiLog 4-Phase Progression · v0.2.1)  
+**Phiên bản:** 1.4 (Gate B — Phase 1–5 & SurgiLog 4-Phase Progression · v0.2.2)  
 **Tiêu chuẩn tham khảo:** ISO 15489-1:2016 Records Management (§8.3 Business Classification System & §9.4 Classification and Indexing)  
 **Căn cứ pháp lý tham chiếu:** Luật Khám bệnh, chữa bệnh số 15/2023/QH15, Luật Bảo vệ Dữ liệu Cá nhân số 91/2025/QH15, Nghị định số 356/2025/NĐ-CP
 

diff --git a/docs/file_classification_matrix.md b/docs/file_classification_matrix.md
@@ -1,6 +1,6 @@
 # BẢNG MA TRẬN PHÂN LOẠI TỆP TIN DỰ ÁN (FILE CLASSIFICATION MATRIX)
 **Dự án:** EndoLog (`endolog`) — Sổ Bộ Lâm Sàng & Đánh Giá Chất Lượng Nội Soi Tiêu Hóa (Bệnh viện Bình Dân)  
-**Phiên bản:** 1.4 (Gate B — Phase 1–5 & SurgiLog 4-Phase Progression · v0.2.1)  
+**Phiên bản:** 1.4 (Gate B — Phase 1–5 & SurgiLog 4-Phase Progression · v0.2.2)  
 **Tiêu chuẩn tham khảo:** ISO 15489-1:2016 Records Management (§8.3 Business Classification System & §9.4 Classification and Indexing)  
 **Căn cứ pháp lý tham chiếu:** Luật Khám bệnh, chữa bệnh số 15/2023/QH15, Luật Bảo vệ Dữ liệu Cá nhân số 91/2025/QH15, Nghị định số 356/2025/NĐ-CP
 
